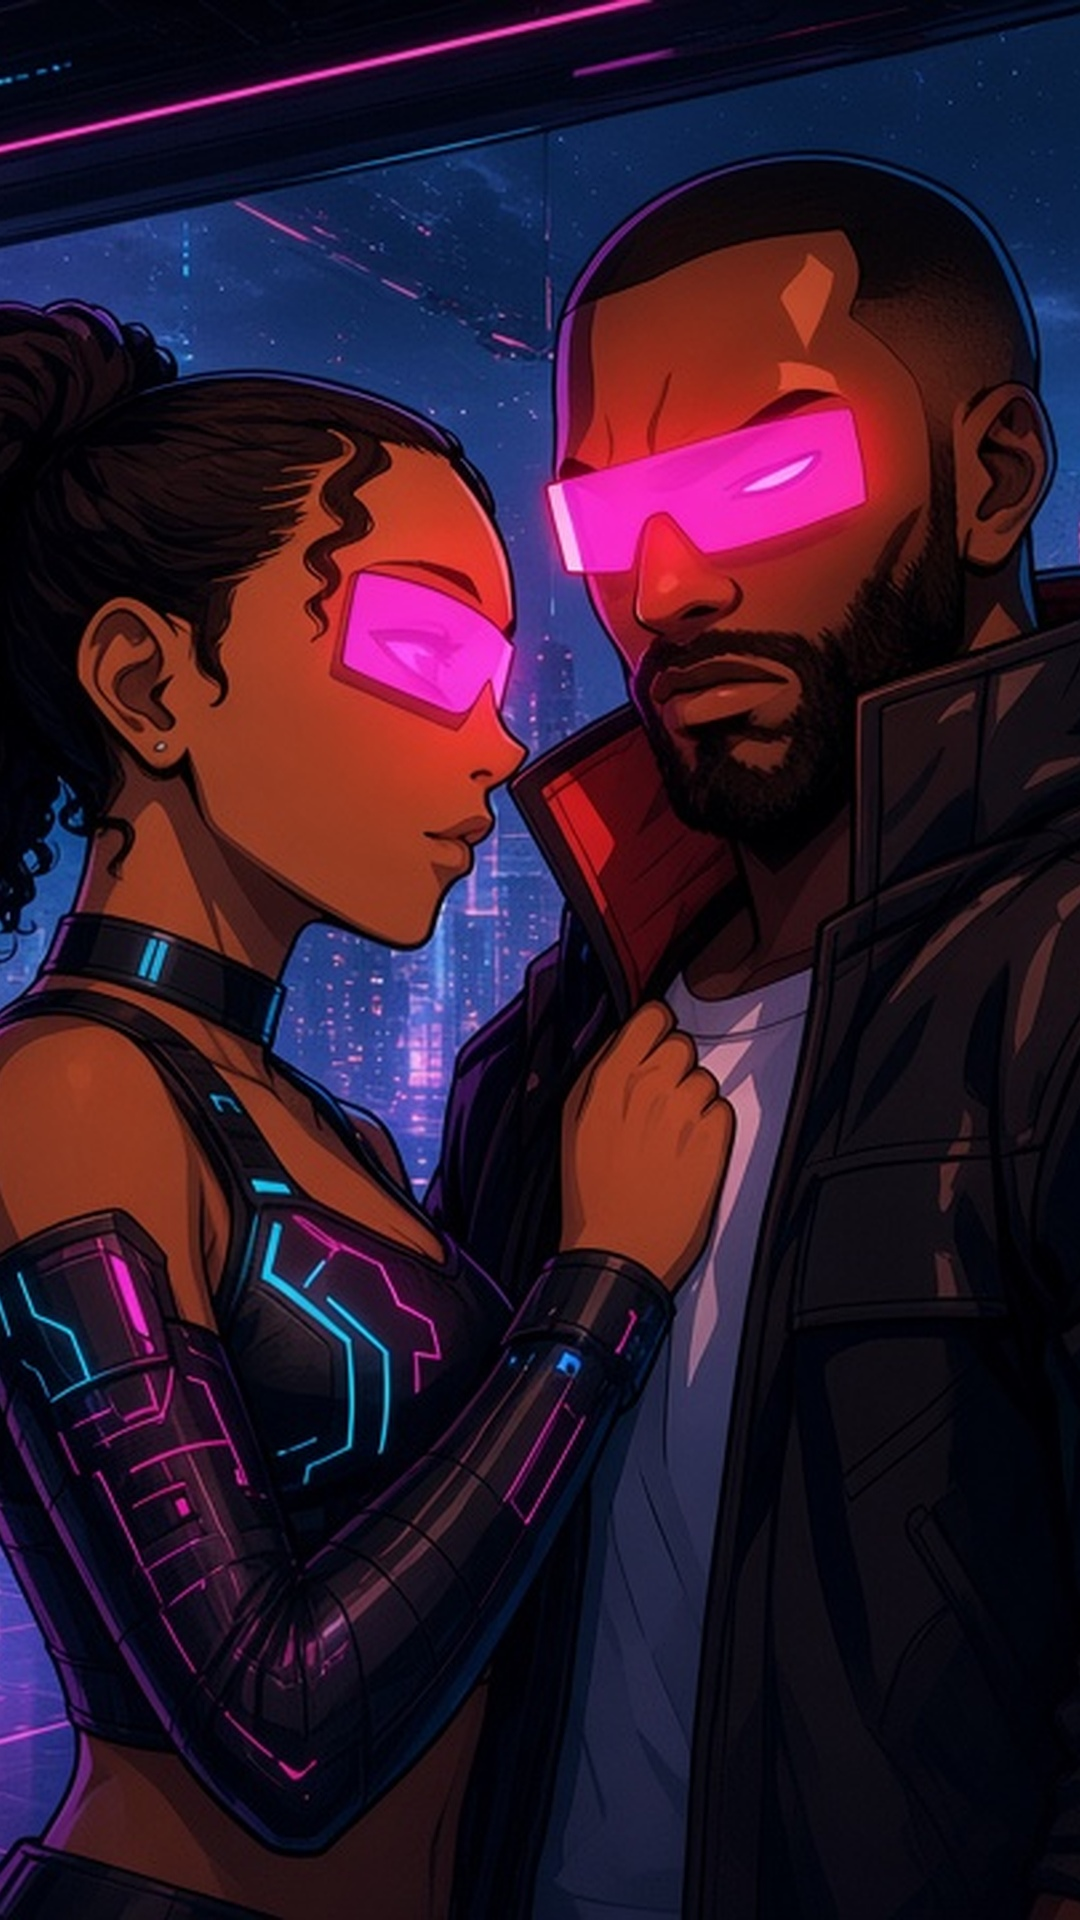
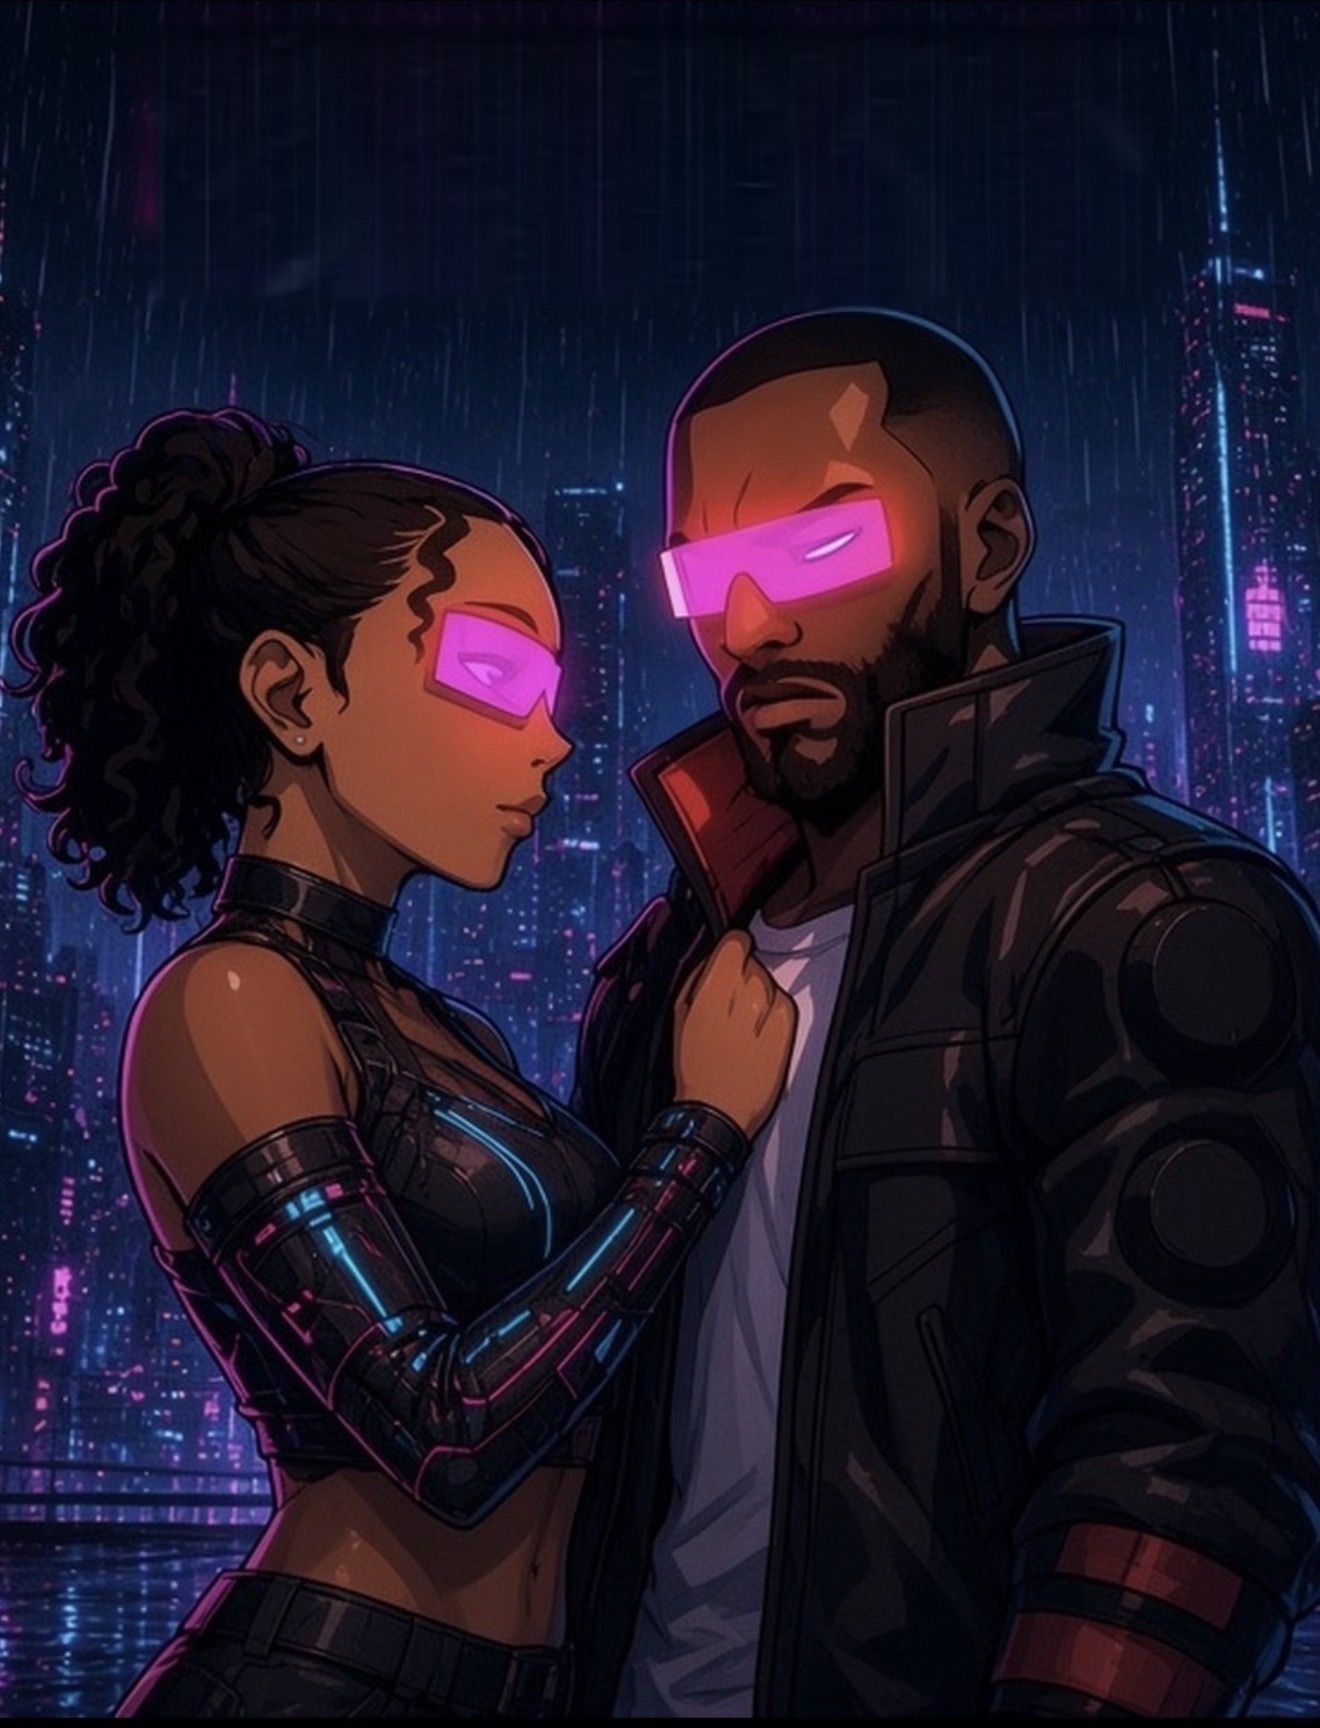
Update hero to comic art without title text

diff --git a/index.html b/index.html
@@ -24,8 +24,8 @@
       <img
         src="hero.jpg"
         alt="Sierra and 720 in neon cyberpunk city — MY A.I."
-        width="1080"
-        height="1920"
+        width="1320"
+        height="1728"
       />
     </figure>
 
